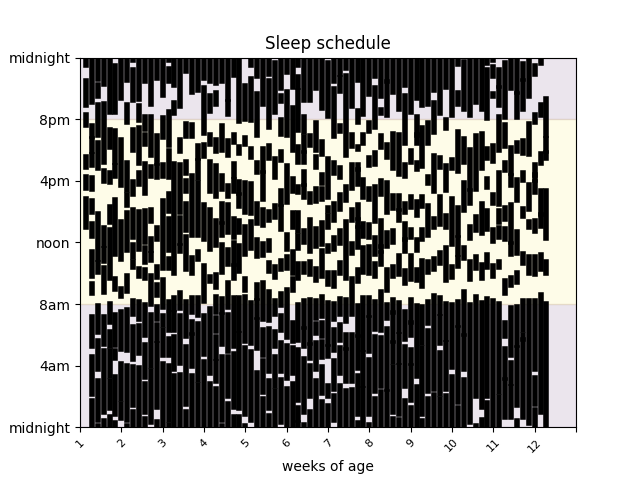
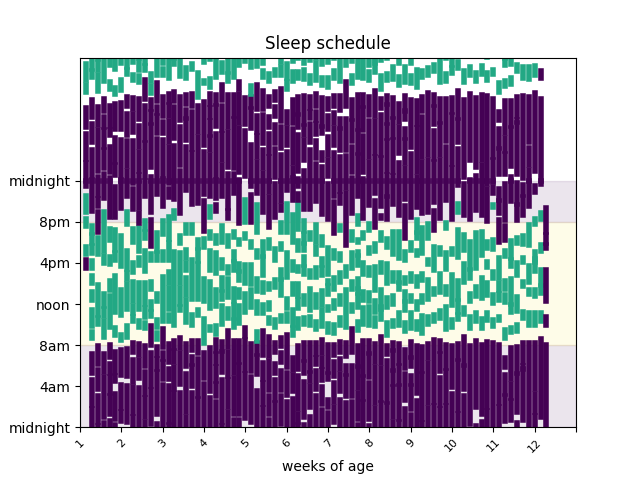
initial bedtime/waketime work

diff --git a/datita.py b/datita.py
@@ -453,20 +453,173 @@ def plot_sleep(data_sleep, n_days_sleep):
 
     plt.savefig('sleep_wake.png')
 
+    # bedtimes and waketimes
+    plt.figure()
+    [bedtimes, waketimes] = bed_wake_times(data_sleep, data_wake)
 
-def plot_sleep_24(data_sleep_24):
+    plt.subplot2grid((3,3), (0,0), colspan=2, rowspan=3)
+    times_bed = []
+    times_wake = []
+    for i in range(len(bedtimes)):
+        times_bed.append(bedtimes[i][1])
+        times_wake.append(waketimes[i][1])
+        plt.plot(bedtimes[i][0], bedtimes[i][1], 'o', color=colormap(1.0))
+        plt.plot(waketimes[i][0], waketimes[i][1], 'o', color=colormap(0.5))
+    date_ticks(data_sleep, label_type)
+    time_ticks('y')
+
+    plt.subplot2grid((3,3), (0,2), colspan=1, rowspan=3)
+    plt.ylim([0, 24.])
+    time_ticks('y')
+    plt.gca().set_yticklabels([])
+    weights = numpy.ones_like(times_bed)/len(times_bed)*100.
+    plt.hist(times_bed, bins=numpy.arange(0., 24., 0.5), weights=weights, histtype='stepfilled', color=colormap(1.0), orientation='horizontal')
+    weights = numpy.ones_like(times_wake)/len(times_wake)*100.
+    plt.hist(times_wake, bins=numpy.arange(0., 24., 0.5), weights=weights, histtype='stepfilled', color=colormap(0.5), orientation='horizontal', alpha=0.5)
+
+    plt.savefig('sleep_bed_wake_times.png')
+
+    # correlation between bedtime and wakeup time 
+    plt.figure()
+    for i in range(len(bedtimes)-1):
+        recency = (bedtimes[i][0] - bedtimes[0][0]).days
+        alpha = 1.0
+        if recency < len(bedtimes)-7:
+            alpha = 0.5
+        color = colormap(norm(recency))
+        plt.plot(bedtimes[i][1], waketimes[i+1][1], 'o', color=color, alpha=alpha)
+    
+    plt.axis([18., 24., 6., 10.])
+    plt.xlabel('bedtime')
+    plt.ylabel('waketime')
+    plt.savefig('sleep_bed_wake_correlation')
+    return bedtimes, waketimes
+
+
+def determine_bedtime(bedtimes, current_date_sleep):
+
+    bedtime_index = -1
+    
+    # look for first sleep after bedtime; default is midnight
+    for j in range(1,len(current_date_sleep)+1):
+        if current_date_sleep[-j][0] > night:
+            bedtime_index = -j
+
+    # check for long wake period following (or if sleep is less than 1.5 hours?)
+    if bedtime_index < -1:
+        wake_period_after = current_date_sleep[bedtime_index+1][0] - current_date_sleep[bedtime_index][1]
+        if wake_period_after > 0.5:
+            bedtime_index = bedtime_index + 1
+
+    # check for short wake period before 
+    wake_period_before = current_date_sleep[bedtime_index][0] - current_date_sleep[bedtime_index-1][1] 
+    if wake_period_before < 1.:
+        bedtime_index = bedtime_index - 1
+
+    # check if bedtime was really midnight or later (set to midnight)
+    last_wakeup = current_date_sleep[-1][1]
+    if last_wakeup < 23:
+        bedtimes[-1][1] = 24.
+    else:
+        bedtimes[-1][1] = current_date_sleep[bedtime_index][0]
+
+    return bedtimes
+
+
+def determine_waketime(waketimes, current_date_wake):
+    # only problem is 10/20, when there were two short wakeups
+
+    # look for first wakeup after one hour before the day starts
+    for j in range(1,len(current_date_wake)+1):
+        if current_date_wake[-j][0] > morning-1.5:
+            waketime_index = len(current_date_wake)-j
+
+    # check for short wake period following 
+    wake_period_after = current_date_wake[waketime_index][1] - current_date_wake[waketime_index][0]
+    if wake_period_after < 0.8:
+        waketime_index = waketime_index + 1
+
+    # check for long wake period before
+    if waketime_index > 0:
+        wake_period_before = current_date_wake[waketime_index-1][1] - current_date_wake[waketime_index-1][0] 
+        if wake_period_before > 1.5 and current_date_wake[waketime_index-1][0] > 4.:
+            waketime_index = waketime_index - 1
+
+    waketimes[-1][1] = current_date_wake[waketime_index][0]
+
+    return waketimes
+
+
+def bed_wake_times(data_sleep, data_wake):
+    # bedtime
+    bedtimes = [[data_sleep[0][0].date(), 24.0]]
+    current_date_sleep = []
+
+    for i in range(len(data_sleep)):
+
+        sleep_time = parse_time(data_sleep[i][0])
+        wake_time = sleep_time + data_sleep[i][1]/60.
+        if data_sleep[i][0].date() == bedtimes[-1][0]:
+            # gather all of a day's sleep 
+            current_date_sleep.append([sleep_time, wake_time])
+            
+        else: # at the end of the day
+            bedtimes = determine_bedtime(bedtimes, current_date_sleep)
+            # plt.plot(bedtimes[-1][0], bedtimes[-1][1], 'o', color=colormap(1.0))
+
+            # set up next day
+            bedtimes.append([data_sleep[i][0].date(), 24.0])
+            current_date_sleep = [[sleep_time, wake_time]]
+
+    # waketime
+    waketimes = [[data_wake[0][0].date(), 0.0]]
+    current_date_wake = []
+
+    for i in range(len(data_wake)):
+
+        wake_time = parse_time(data_wake[i][0])
+        sleep_time = wake_time + data_wake[i][1]/60.
+        if data_wake[i][0].date() == waketimes[-1][0]:
+            # gather all of a day's wakeups 
+            current_date_wake.append([wake_time, sleep_time])
+            
+        else: # at the end of the day
+            waketimes = determine_waketime(waketimes, current_date_wake)
+            # plt.plot(waketimes[-1][0], waketimes[-1][1], 'o', color=colormap(0.5))
+
+            # set up next day
+            waketimes.append([data_wake[i][0].date(), 24.0])
+            current_date_wake = [[wake_time, sleep_time]]
+
+    return bedtimes, waketimes
+
+
+def plot_sleep_24(data_sleep_24, bedtimes, waketimes):
     # sleep schedule with day and night distinguished
     plt.figure()
     plt.title('Sleep schedule')
     [week_dates, week_names] = date_ticks(data_sleep_24, 'week')
     time_ticks('y')
-    for i in range(len(data_sleep_24)):
-        x = data_sleep_24[i][0].date()
-        y1 = parse_time(data_sleep_24[i][0])
-        y2 = parse_time(data_sleep_24[i][1])
-        plt.plot([x, x], [y1, y2], 'k-', linewidth=4)
-    plt.savefig('sleep_schedule.png')
 
+    day_index = 0
+    for i in range(1, len(data_sleep_24)):
+        day = data_sleep_24[i][0].date()
+        if day != data_sleep_24[i-1][0].date():
+            day_index = day_index + 1
+        sleep_time = parse_time(data_sleep_24[i][0])
+        wake_time = parse_time(data_sleep_24[i][1])
+
+        if sleep_time >= bedtimes[day_index][1] or wake_time <= waketimes[day_index][1] + 0.1:
+            color = colormap(1.0)
+        else:
+            color = colormap(0.4)
+
+        plt.plot([day, day], [sleep_time, wake_time], '-', linewidth=4, color=color)
+        day = day + timedelta(days=-1)
+        plt.plot([day, day], [sleep_time+24, wake_time+24], '-', linewidth=4, color=color)
+
+    plt.gca().set_ylim([0, 36])
+    plt.savefig('sleep_schedule.png')
 
     # heat map of sleep schedule by week
     plt.figure()
@@ -876,8 +1029,8 @@ if __name__ == '__main__':
     data_length = parse_lengths(lines_lengths, month_dates)
     data_head = parse_head(head_filename)
     
-    plot_sleep(data_sleep, n_days_sleep)
-    plot_sleep_24(data_sleep_24)
+    [bedtimes, waketimes] = plot_sleep(data_sleep, n_days_sleep)
+    plot_sleep_24(data_sleep_24, bedtimes, waketimes)
     plot_feeding(data_feeding)
     plot_diapers(data_diapers)
     plot_percentiles('weight', gender, data_weight, n_months, official=False)
